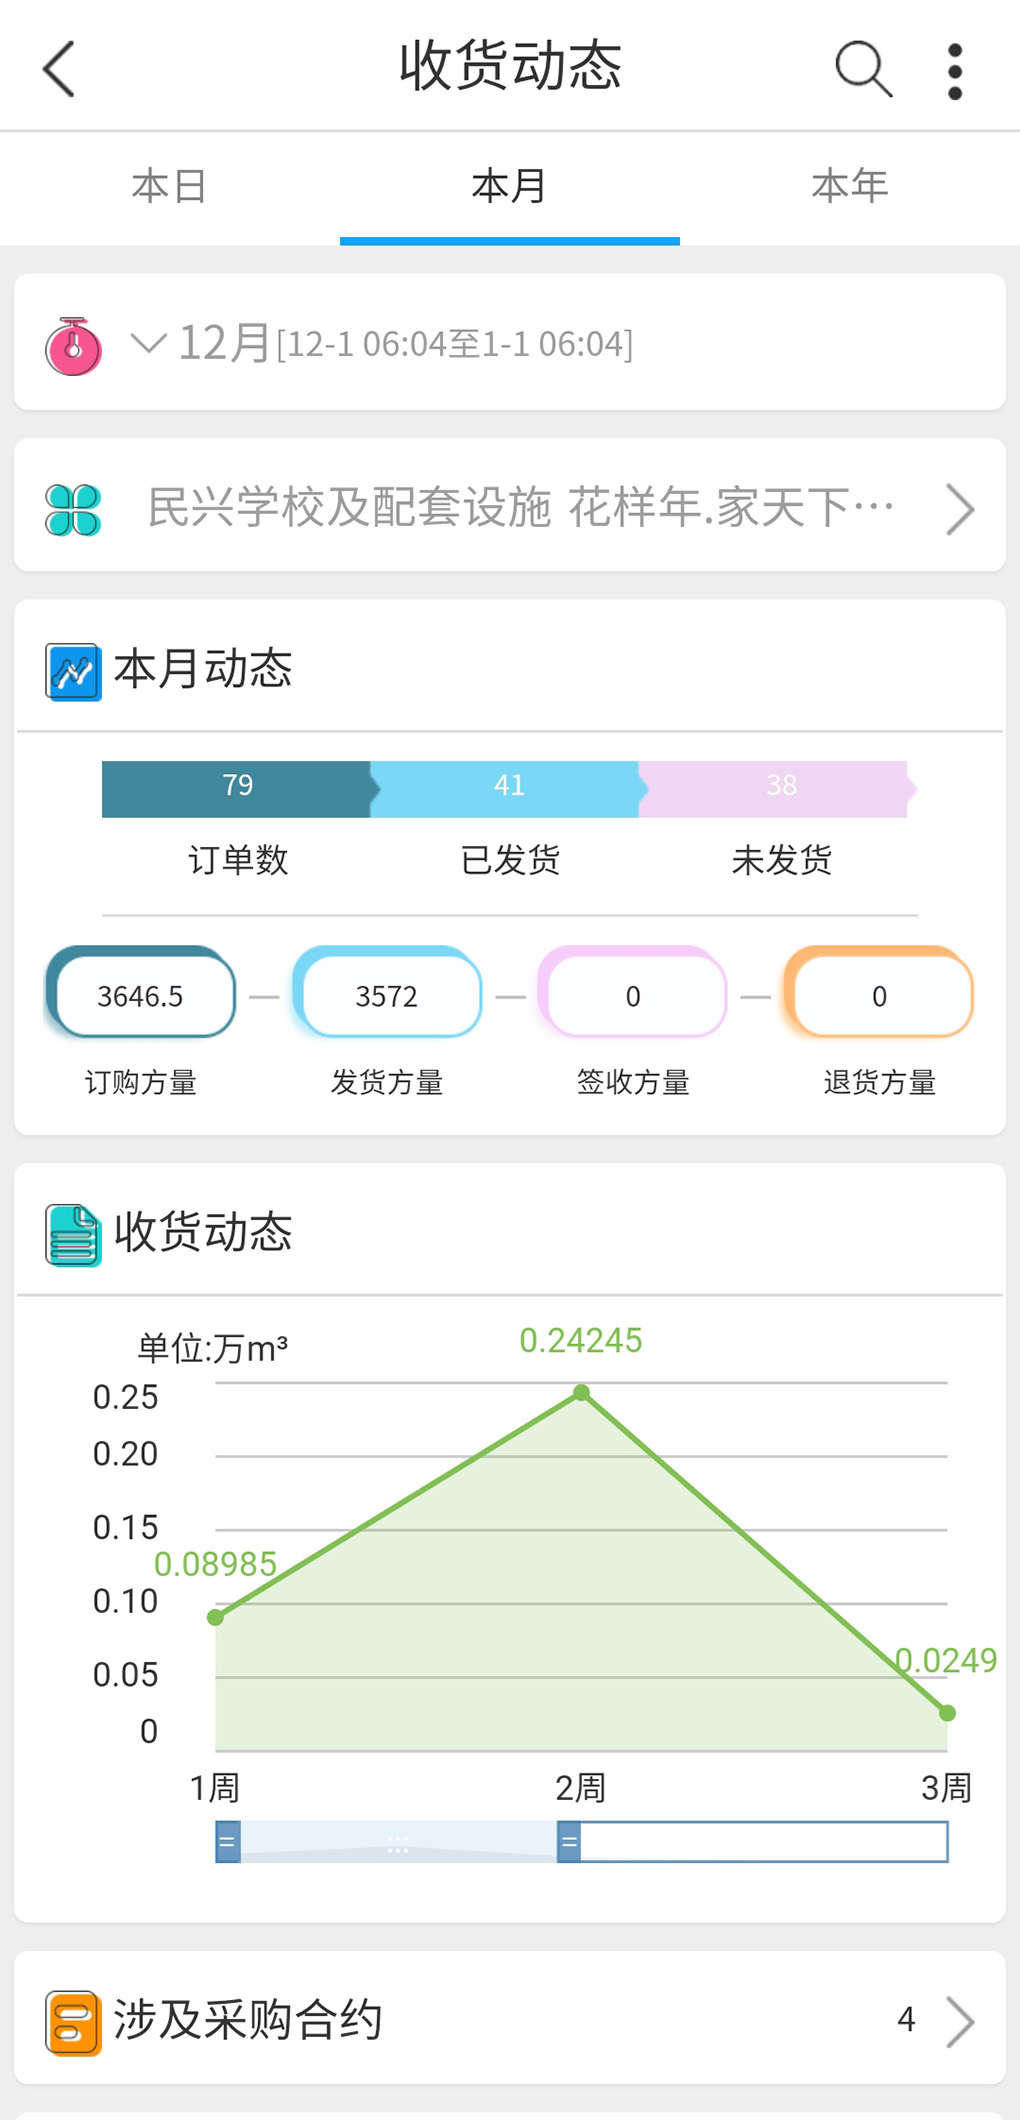
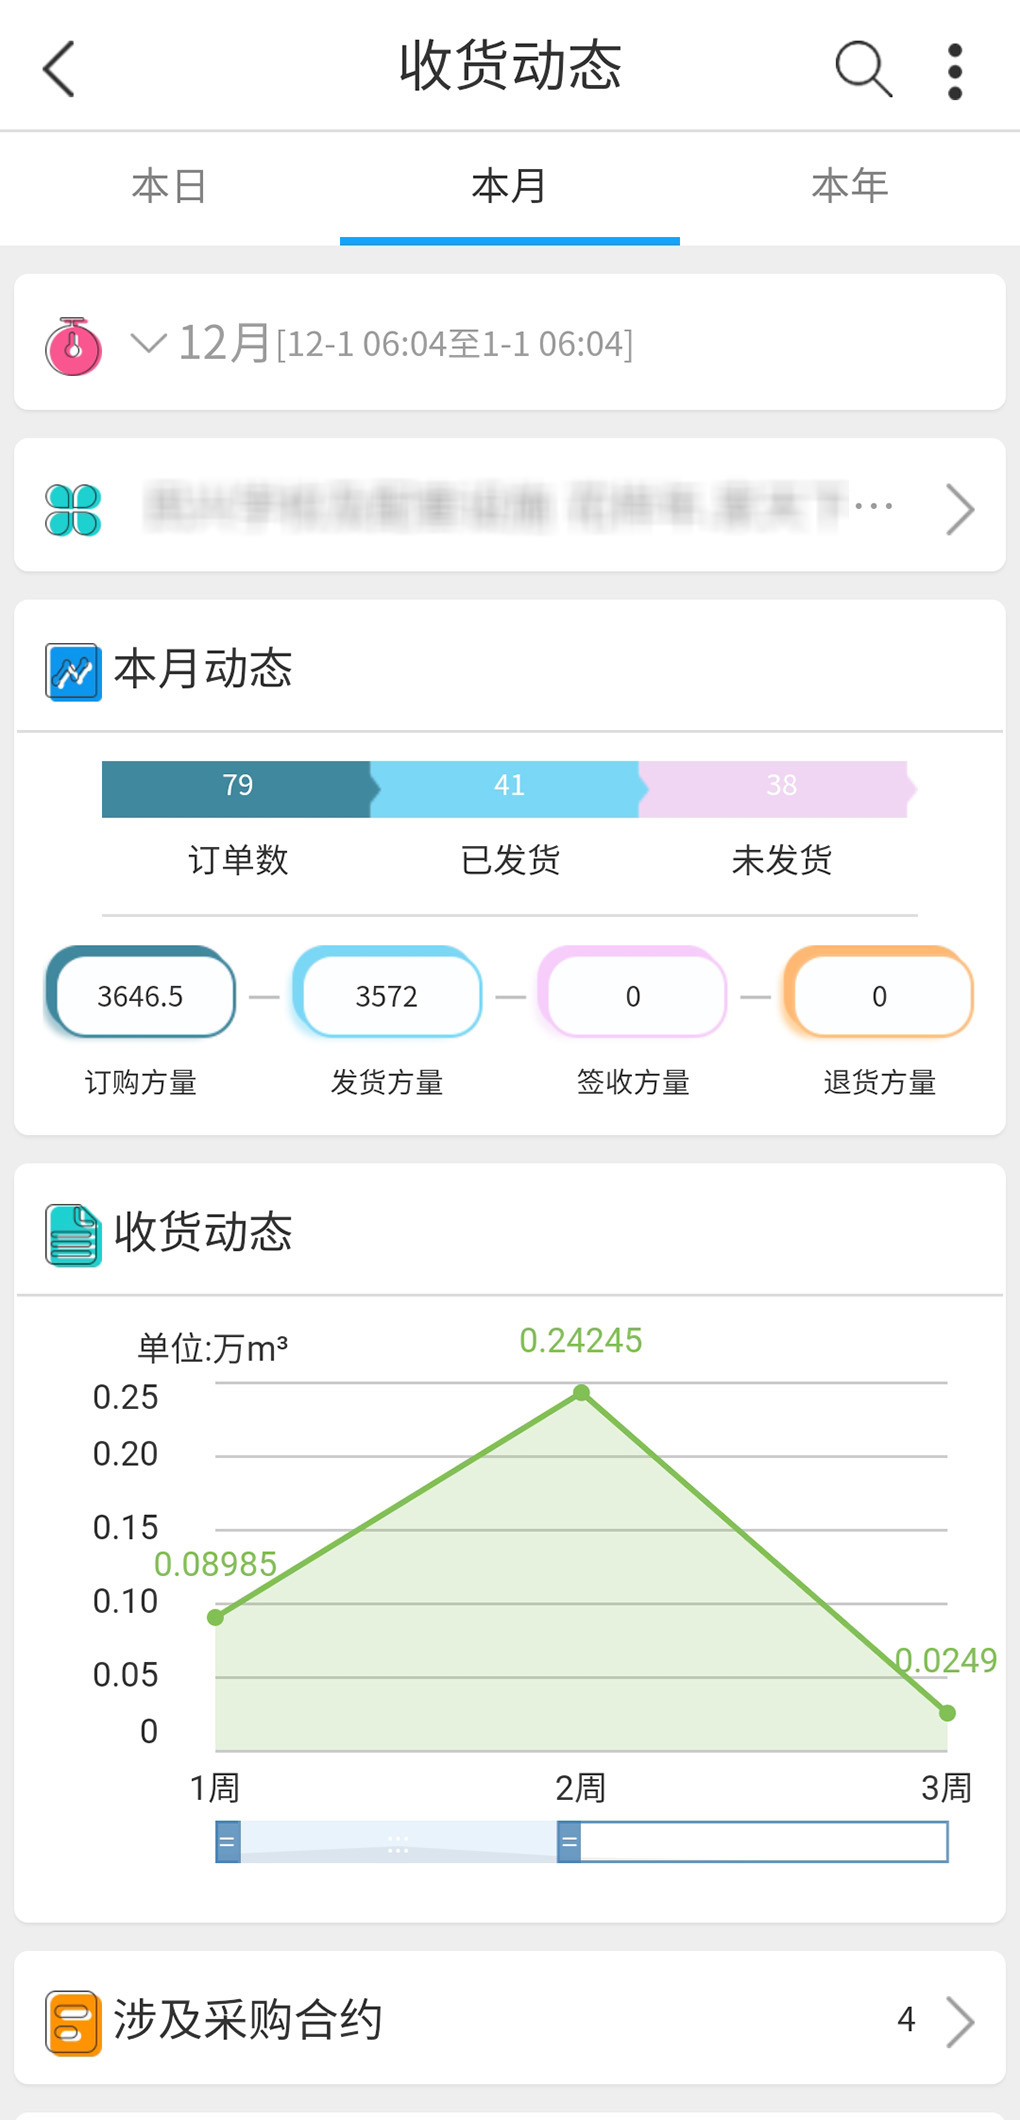
轮播图马赛克

Changed region(s): [[0.152, 0.2179, 0.8206, 0.2491]]

diff --git a/insideHtml/CEMSystem.html b/insideHtml/CEMSystem.html
@@ -119,7 +119,7 @@
             </div>
             <div class="fun-item  wow fadeInUp">
               <div class="img-box"> <img src="../images/insideHtml/CEMSystem/hnt/img_icon5.png"> </div>
-              <p>GPS</p>
+              <p>调度管理</p>
             </div>
             <div class="fun-item  wow fadeInUp">
               <div class="img-box"> <img src="../images/insideHtml/CEMSystem/hnt/img_icon6.png"> </div>
@@ -144,9 +144,9 @@
           <div class="div-text">
             <img class="img-com wow fadeInUp" src="../images/insideHtml/CEMSystem/img_com.png">
             <div class="text-box wow fadeInRight">
-              <h3>SYSTEM FUNCTION<br>系统功能</h3>
+              <h3>SYSTEM FUNCTION<br>系统介绍</h3>
               <p>
-                CEM2008系统软件由从事混凝土软件开发多年的专家技术团队开发完成，现有60多人的专业研发团队以满足不同客户的定向开发需求。软件基本功能模块包括：销售管理，生产管理，技术管理，物资管理，设备管理，人力资源管理，账务管理，GPS调度管理共八个模块。
+                CEM系统软件由从事混凝土软件开发多年的专家技术团队开发完成，现有60多人的专业研发团队以满足不同客户的定向开发需求。软件基本功能模块包括：销售管理，生产管理，技术管理，物资管理，设备管理，人力资源管理，账务管理，GPS调度管理共八个模块。
               </p>
             </div>
           </div>

diff --git a/insideHtml/GPSSystem.html b/insideHtml/GPSSystem.html
@@ -27,8 +27,6 @@
 </head>
 
 <body>
-
-
   <div class="preloader"> <img src="../images/preloader.gif" alt="Image">
     <ul class="text-rotater">
       <li>加载</li>
